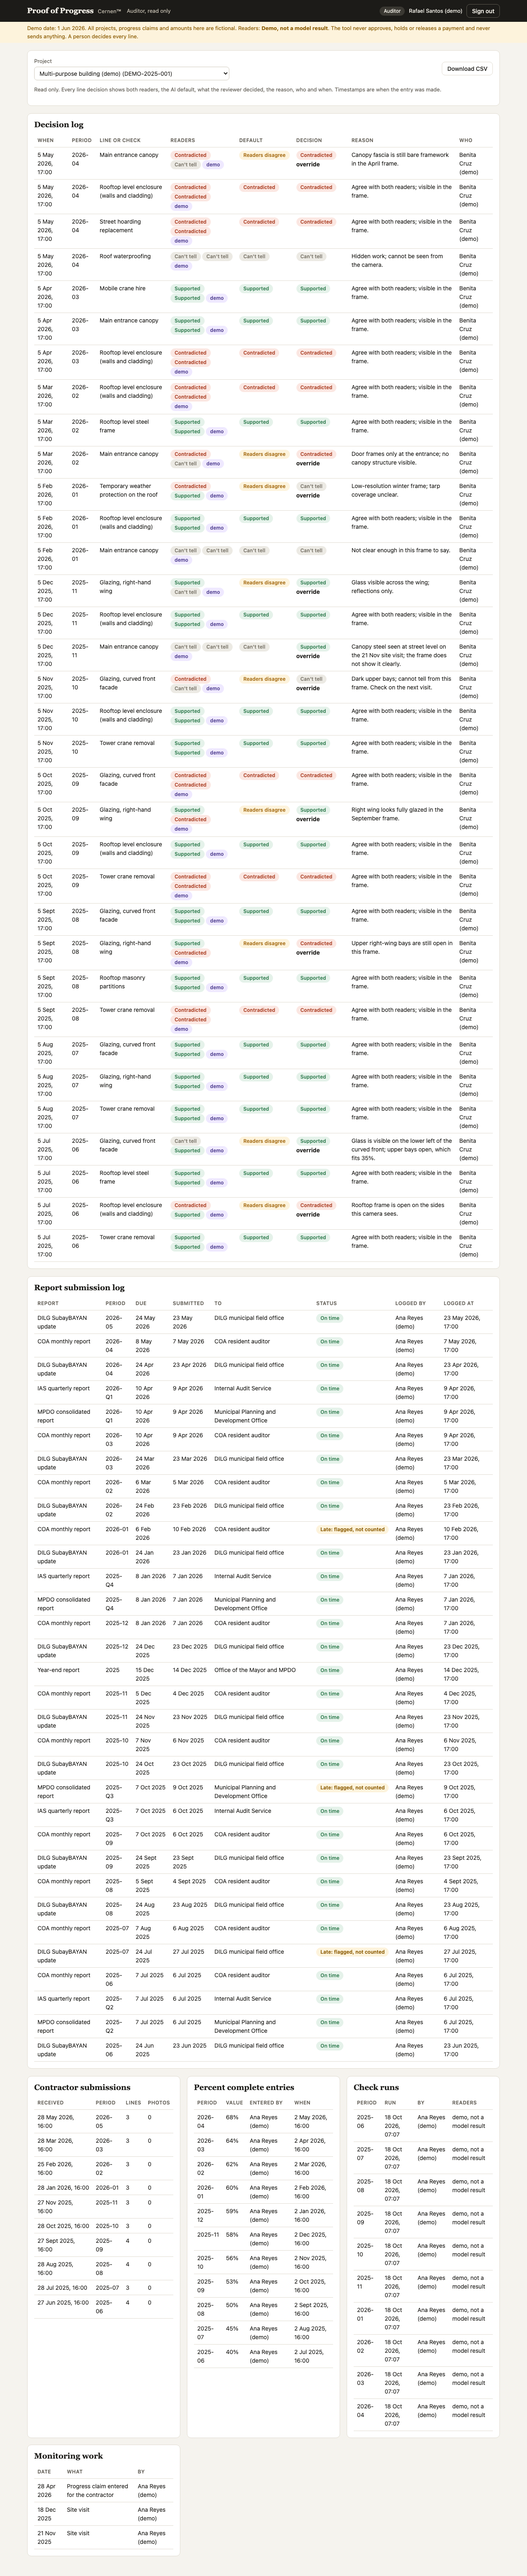
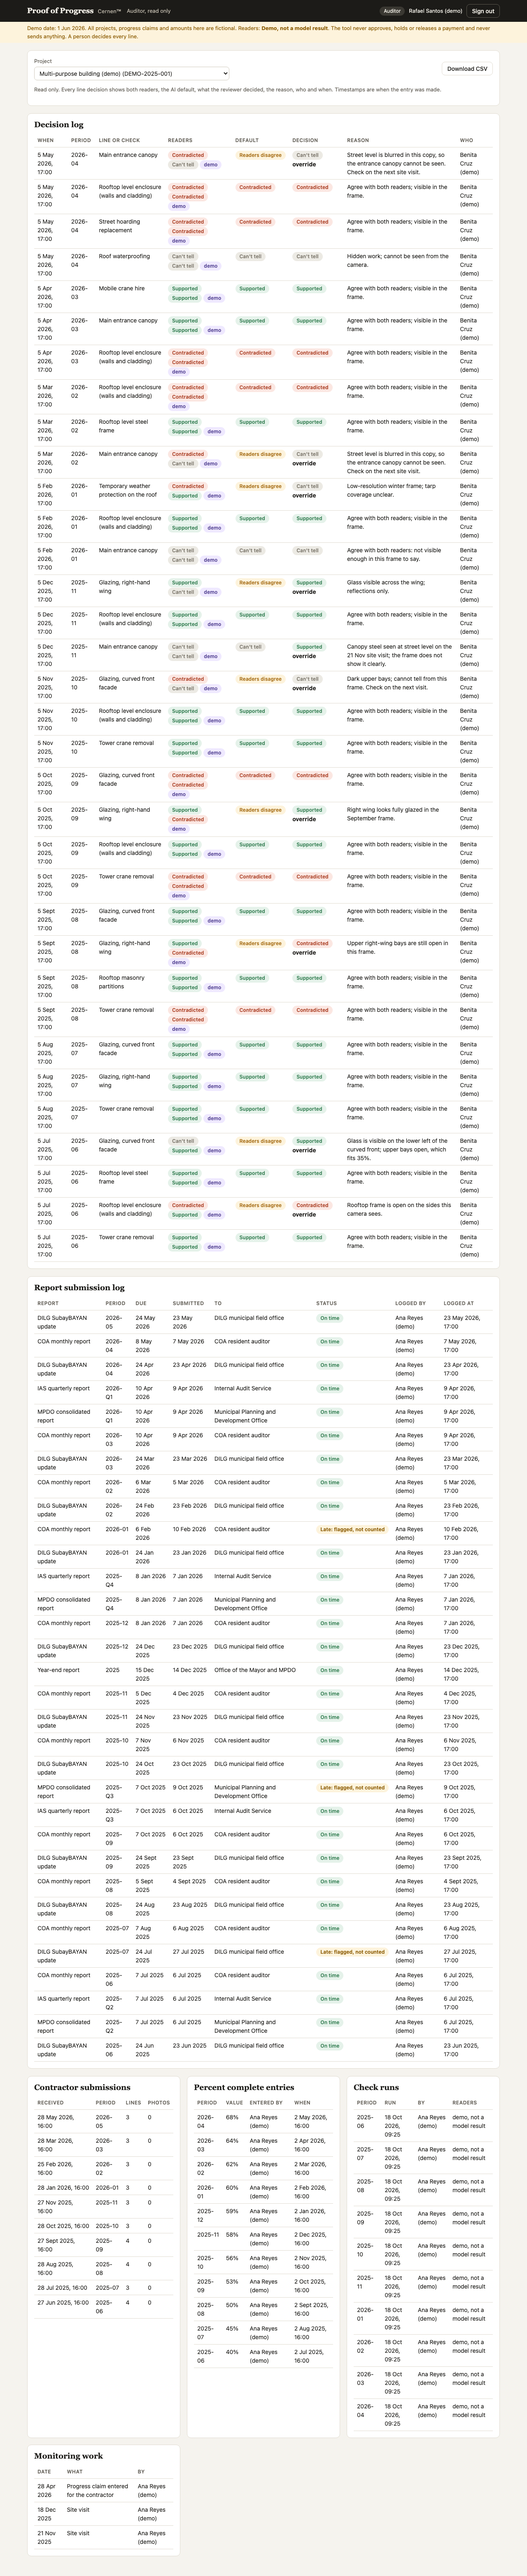
Seeded decisions are true to the photo on screen: agree where the saved Gemini readers agree, say so where they disagree, and override only with a reason that holds for the blurred frame (April hoarding and the street-level canopy lines are now can't tell); April drafts re-recorded to match (US$0.03
Found in GPT's live review of the deployment.

diff --git a/scripts/record-runs.js b/scripts/record-runs.js
@@ -10,6 +10,9 @@ const os = require('os');
 const path = require('path');
 
 const CAP = Number(process.env.RECORD_CAP_USD || 1.8);
+// RECORD_NOTES_ONLY=1: re-record the saved drafts after the seeded decisions change; no evaluation report.
+const NOTES_ONLY = process.env.RECORD_NOTES_ONLY === '1';
+const newNoteIds = new Set();
 
 async function main() {
   if (!process.env.GOOGLE_CLOUD_PROJECT) throw new Error('Set GOOGLE_CLOUD_PROJECT.');
@@ -46,6 +49,18 @@ async function main() {
     als.run({ ws: MAIN, judge: true }, async () => {
       try {
         const p1 = await store.get('projects', 'P-001');
+        // Saved drafts for the seeded April decisions, one per audience. Written first, from the seeded
+        // state, before any check is re-run (a re-run makes the seeded decisions belong to an earlier run).
+        for (const audience of ['office', 'mayor', 'public']) {
+          try {
+            const n = await draftNote({ store, rootStore, live, spend, judge: true, config, project: p1, period: '2026-04', audience });
+            newNoteIds.add(n.key);
+            console.log(`note ${audience}: ${n.text.slice(0, 80)}...`);
+          } catch (e) {
+            console.log(`note ${audience} failed: ${e.message}`);
+          }
+        }
+        if (NOTES_ONLY) return resolve();
         for (const m of D.MONTHS) {
           if (m.notSeeded) {
             await A.addPhoto({ store, photoStore, project: p1, period: m.period, buffer: fs.readFileSync(path.join(__dirname, '..', 'seed-photos', m.file)), fileName: m.file, contentType: 'image/jpeg', user, source: 'office', stampText: m.stamp, recorded: { exif: { taken: m.emb, gps: null, make: null, model: null }, metadataSource: 'recorded from the source video clip', sourceResolution: m.res, framingNote: m.framing || '' } });
@@ -58,15 +73,6 @@ async function main() {
         const c3 = await runCheck({ store: noCorrections, photoStore, readers, project: p3, period: '2026-05', user });
         results.push({ project: 'P-003', period: '2026-05', check: c3 });
         console.log(`P-003 2026-05: aiMode=${c3.aiMode} spent=$${(await spend.today()).toFixed(4)}`);
-        // Saved drafts for the seeded April decisions, one per audience.
-        for (const audience of ['office', 'mayor', 'public']) {
-          try {
-            const n = await draftNote({ store, rootStore, live, spend, judge: true, config, project: p1, period: '2026-04', audience });
-            console.log(`note ${audience}: ${n.text.slice(0, 80)}...`);
-          } catch (e) {
-            console.log(`note ${audience} failed: ${e.message}`);
-          }
-        }
         resolve();
       } catch (e) {
         reject(e);
@@ -109,10 +115,16 @@ async function main() {
   const spent = await spend.today();
 
   const aicache = await rootStore.find('aicache', {});
-  const notecache = await rootStore.find('notecache', {});
+  // Keep only drafts that match the current seeded decisions (older ones can never match again).
+  const notecache = (await rootStore.find('notecache', {})).filter((n) => newNoteIds.has(n.id) || !NOTES_ONLY);
   const out = path.join(__dirname, '..', 'src', 'seed', 'saved-runs.json');
   fs.writeFileSync(out, `${JSON.stringify({ recordedAt: new Date().toISOString(), model: config.geminiModel, aicache, notecache }, null, 1)}\n`);
   const stamp = new Date().toISOString().replace(/[:.]/g, '').slice(0, 15);
+  if (NOTES_ONLY) {
+    console.log(`Notes re-recorded (${notecache.length}); no evaluation report written. Estimated spend: US$${(await spend.today()).toFixed(4)}`);
+    fs.rmSync(photoDir, { recursive: true, force: true });
+    return;
+  }
   fs.mkdirSync(path.join(__dirname, '..', 'eval'), { recursive: true });
   const report = { recordedAt: new Date().toISOString(), model: config.geminiModel, setup: 'v3 Node readers (prompt in src/ai/prompt.js), one photo per month, no earlier corrections', metrics, timing, estimatedSpendUsd: Number(spent.toFixed(4)), rows };
   fs.writeFileSync(path.join(__dirname, '..', 'eval', `R2_${stamp}.json`), `${JSON.stringify(report, null, 1)}\n`);

diff --git a/src/services/notes.js b/src/services/notes.js
@@ -48,9 +48,9 @@ async function draftNote({ store, rootStore, live, spend, judge, config, project
   const key = crypto.createHash('sha256').update(`${model}|${audience}|${f}`).digest('hex').slice(0, 40);
   // A visitor's own drafts first (kept in their copy), then the shared saved drafts for the seeded decisions.
   const own = await store.get('notecache', key);
-  if (own) return { text: own.text, model: own.model, at: own.at, saved: true, audience };
+  if (own) return { text: own.text, model: own.model, at: own.at, saved: true, audience, key };
   const hit = await rootStore.get('notecache', key);
-  if (hit) return { text: hit.text, model: hit.model, at: hit.at, saved: true, audience };
+  if (hit) return { text: hit.text, model: hit.model, at: hit.at, saved: true, audience, key };
   if (!live) throw Object.assign(new Error('Live AI is off in this deployment, and no saved draft matches these decisions.'), { status: 403, needsCode: false });
   if (!judge) throw Object.assign(new Error('Live Gemini actions need the judge access code (enter it on the sign-in page).'), { status: 403, needsCode: true });
   const prompt = promptFor(audience, f);
@@ -68,7 +68,7 @@ async function draftNote({ store, rootStore, live, spend, judge, config, project
   const text = neutralize(r.text);
   const at = new Date().toISOString();
   await (config.recordShared ? rootStore : store).set('notecache', key, { id: key, text, model: r.model, at, audience });
-  return { text, model: r.model, at, saved: false, audience };
+  return { text, model: r.model, at, saved: false, audience, key };
 }
 
 module.exports = { draftNote, promptFor, facts, AUDIENCES };

diff --git a/src/seed/seed.js b/src/seed/seed.js
@@ -87,9 +87,13 @@ async function seedDemo({ store, photoStore, readers: seedReaders }) {
       const rec = (D.CLAIMS[m.k] || []).find((c) => c.l === l.lineKey);
       let decision;
       let reason;
+      // Seeded decisions must be true to the photo on screen: agree where the readers agree, say so where
+      // they disagree, and override only with a reason that holds for this frame (P001_DECISIONS).
+      const agreed = ['supported', 'contradicted', 'not_assessable'].includes(l.aiDefault);
       if (D.P001_DECISIONS[rec.id]) [decision, reason] = D.P001_DECISIONS[rec.id];
       else if (l.hidden) [decision, reason] = ['not_assessable', 'Hidden work; cannot be seen from the camera.'];
-      else [decision, reason] = [MAP[rec.A], rec.A === 'N' ? 'Not clear enough in this frame to say.' : 'Agree with both readers; visible in the frame.'];
+      else if (agreed) [decision, reason] = [l.aiDefault, l.aiDefault === 'not_assessable' ? 'Agree with both readers: not visible enough in this frame to say.' : 'Agree with both readers; visible in the frame.'];
+      else [decision, reason] = [MAP[rec.A], `The readers disagree, so there is no default. Decided from the frame: ${MAP[rec.A] === 'not_assessable' ? 'not clear enough to say' : MAP[rec.A] === 'supported' ? 'the work is visible' : 'the photo shows otherwise'}.`];
       await decideLine({ store, project: p1, period: m.period, lineKey: l.lineKey, decision, reason, user: benita, at });
     }
   }

diff --git a/test/e2e/others.spec.js b/test/e2e/others.spec.js
@@ -11,7 +11,7 @@ test.describe('Mayor', () => {
     const text = await page.getByTestId('escalations').innerText();
     expect(text).toContain('DILG SubayBAYAN update for May 2026 was due on 24 May 2026');
     expect(text).toContain('the 70% milestone was planned for 31 March 2026');
-    expect(text).toContain('photos do not show what the progress claim says on 3 line items');
+    expect(text).toContain('photos do not show what the progress claim says on 2 line items');
     // Office-only (yellow) items are not here.
     for (const officeOnly of ['Behind plan', 'submitted late', 'awaiting review', 'waiting for the reviewer', 'waiting for a person to decide', 'photo check', 'COA monthly report for May 2026']) expect(text).not.toContain(officeOnly);
     // Nothing else on the screen: no project list, no forms.
@@ -71,7 +71,7 @@ test.describe('Auditor (COA, IAS, DILG), read only', () => {
     await signIn(page, 'aud-coa', 'auditor');
     const dl = page.getByTestId('decision-log');
     await expect(dl).toContainText('Benita Cruz (demo)');
-    await expect(dl).toContainText('Canopy fascia is still bare framework in the April frame.');
+    await expect(dl).toContainText('Street level is blurred in this copy, so the entrance canopy cannot be seen.');
     await expect(dl).toContainText('override');
     const sl = page.getByTestId('submission-log');
     await expect(sl).toContainText('COA monthly report');

diff --git a/src/seed/demo-data.js b/src/seed/demo-data.js
@@ -133,8 +133,8 @@ const P001_DECISIONS = {
   Q035: ['supported', 'Glass visible across the wing; reflections only.'],
   Q037: ['supported', 'Canopy steel seen at street level on the 21 Nov site visit; the frame does not show it clearly.'],
   Q041: ['not_assessable', 'Low-resolution winter frame; tarp coverage unclear.'],
-  Q053: ['contradicted', 'Door frames only at the entrance; no canopy structure visible.'],
-  Q064: ['contradicted', 'Canopy fascia is still bare framework in the April frame.']
+  Q053: ['not_assessable', 'Street level is blurred in this copy, so the entrance canopy cannot be seen. Check on the next site visit.'],
+  Q064: ['not_assessable', 'Street level is blurred in this copy, so the entrance canopy cannot be seen. Check on the next site visit.']
 };
 
 const P001_PERCENT = { '2025-06': 40, '2025-07': 45, '2025-08': 50, '2025-09': 53, '2025-10': 56, '2025-11': 58, '2025-12': 59, '2026-01': 60, '2026-02': 62, '2026-03': 64, '2026-04': 68 };
